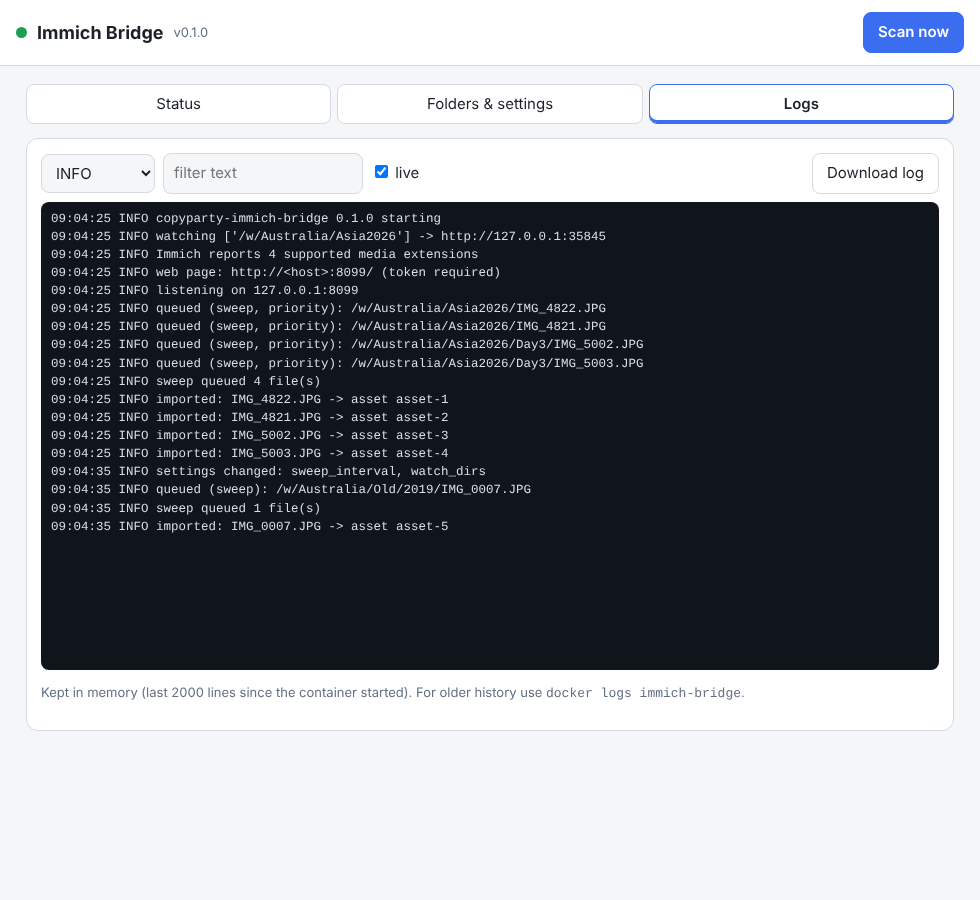
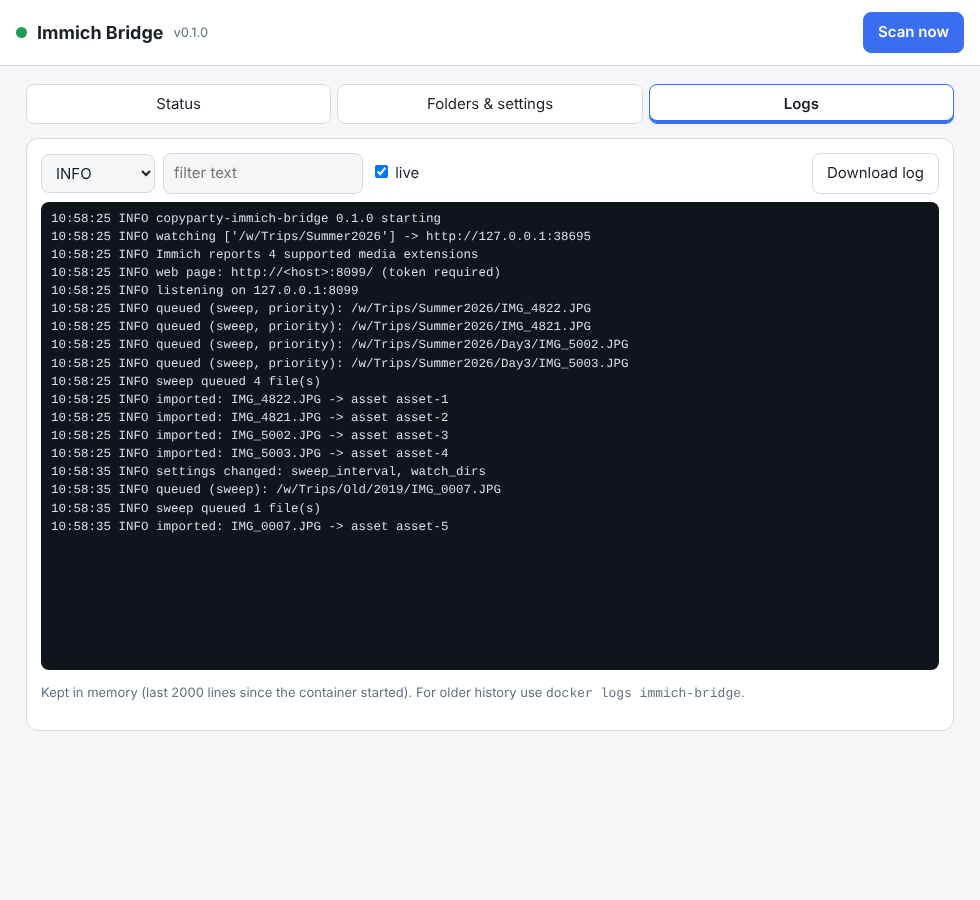
installer/docs: remove the owner's folder names; installer asks for the app folder once and remembers it (build 222) [skip ci]
install.sh no longer defaults to a personal path: APP_FOLDER comes from the flag, from the
previous run's override file, or one prompt (blank = whole data folder). BASE_FOLDER defaults to
the folder containing it. Docs, screenshots, flow page, album placeholder and test data use
generic names. Docs/installer only, so CI is skipped (no APK rebuild).

Claude-Session: https://claude.ai/code/session_01EkgYV68fmubUY33qNcu9Ad

diff --git a/copyparty-immich-bridge/docs/bridge-flow.html b/copyparty-immich-bridge/docs/bridge-flow.html
@@ -138,7 +138,7 @@
         { t: 'Start', d: 'One command on the VM that runs copyparty. Everything is wrapped in a main() so the pipe is fully read before anything runs.', nodes: ['i1'], edges: [] },
         { t: 'Preflight', d: 'Checks docker, curl, git and compose exist, that ~/copyparty/docker-compose.yml is there, and that the copyparty container is running. It refuses to overwrite a docker-compose.override.yml it did not create itself.', nodes: ['i1', 'i2'], edges: [['i1', 'i2']] },
         { t: 'Finds X — where copyparty keeps files', d: 'Runs docker inspect on the copyparty container and lists its mounts. The first mount that is not copyparty’s /cfg config dir is the data mount: X-host (on the VM, e.g. your NAS mount) paired with X-container (the same folder as copyparty sees it). The bridge mounts X read-only.', nodes: ['i2', 'i3'], edges: [['i2', 'i3']] },
-        { t: 'Works out Y — which folders to watch', d: 'Y is built from X-container plus folder names: WATCH_DIRS = X/Australia/Asia2026 (the app’s upload folder) and PRIORITY_DIRS = the same folder, imported first. With WIDE=1, WATCH_DIRS widens to X/Australia while priority stays Asia2026. Override with APP_FOLDER / BASE_FOLDER.', nodes: ['i3', 'i4'], edges: [['i3', 'i4']] },
+        { t: 'Works out Y — which folders to watch', d: 'Y is the folder your phone app uploads into, inside X-container. A re-run reads it back from the installer’s own previous override file, so it only asks on the first install: type it relative to X (for example Trips/Summer2026), or leave it blank to watch everything under X. WATCH_DIRS and PRIORITY_DIRS are both set to it, so it is imported first. With WIDE=1, WATCH_DIRS widens to the folder that contains it while the priority stays on Y. Skip the question with APP_FOLDER=… in front.', nodes: ['i3', 'i4'], edges: [['i3', 'i4']] },
         { t: 'Checks Immich', d: 'IMMICH_URL defaults to this VM’s IP on port 2283. It pings the server, then calls /api/users/me with the API key (asked for once, hidden, read from the terminal). If either fails, it stops before touching your setup.', nodes: ['i4', 'i5'], edges: [['i4', 'i5']] },
         { t: 'Fetches the bridge source', d: 'Sparse git clone of just the copyparty-immich-bridge folder from the repo (re-runs fetch and reset instead).', nodes: ['i5', 'i6'], edges: [['i5', 'i6']] },
         { t: 'Writes the override — never your compose file', d: 'Creates docker-compose.override.yml next to yours: the bridge service (env: IMMICH_URL, WATCH_DIRS, PRIORITY_DIRS; X mounted read-only; a small volume for its state) and, unless your compose already sets command:, the copyparty xau hook. The key goes in immich-bridge.env (mode 600). Delete the override to undo.', nodes: ['i6', 'i7'], edges: [['i6', 'i7']] },
@@ -171,7 +171,7 @@
         { t: 'Two ways a file gets noticed', d: 'Fast path: the copyparty hook. Safety net: a periodic folder sweep. Both end at the same queue, so a file is never imported twice and never missed.', nodes: ['a1', 'b1'], edges: [] },
         { t: 'Fast path — upload completes', d: 'A phone (or anything else) finishes an upload into the watched part of copyparty.', nodes: ['a1', 'a2'], edges: [['a1', 'a2']] },
         { t: 'Fast path — hook calls the bridge', d: 'copyparty runs its xau event hook (flags f,j,t30: forked, JSON, 30 s timeout). The script POSTs the file path to the bridge’s /hook, so the upload itself is never slowed down. If the bridge is down the hook just fails quietly.', nodes: ['a2', 'a3'], edges: [['a2', 'a3']] },
-        { t: 'Fast path — scoping', d: 'The bridge maps the path into its own mount and only accepts it if it is inside WATCH_DIRS. Anything else is logged and ignored (this is why the default install only touches Asia2026). Accepted paths go to the queue.', nodes: ['a3', 'q'], edges: [['a3', 'q']] },
+        { t: 'Fast path — scoping', d: 'The bridge maps the path into its own mount and only accepts it if it is inside WATCH_DIRS. Anything else is logged and ignored (this is why the default install only touches Summer2026). Accepted paths go to the queue.', nodes: ['a3', 'q'], edges: [['a3', 'q']] },
         { t: 'Backstop — the sweep starts', d: 'Runs once at startup and then every SWEEP_INTERVAL_SECONDS (900). This is what catches anything uploaded while the bridge or hook was down, and files from uploaders that never fire the hook.', nodes: ['b1', 'b2'], edges: [['b1', 'b2']] },
         { t: 'Backstop — finds files in folder Y and every subfolder', d: 'os.walk over each WATCH_DIRS entry, all the way down. It skips hidden directories (this covers copyparty’s .hist), the post-import move folder, dotfiles and *.PARTIAL files that up2k is still writing, empty files, and unsupported extensions (the list comes from Immich itself via /api/server/media-types).', nodes: ['b2', 'b3'], edges: [['b2', 'b3']] },
         { t: 'Backstop — skip what’s already handled', d: 'Files modified in the last 30 s are left alone so a half-written file is not grabbed. Anything state.db already has as done for the same size and mtime is skipped, and so is anything that has failed 5 times. The rest is queued.', nodes: ['b3', 'q'], edges: [['b3', 'q']] },
@@ -243,35 +243,35 @@
       [['You type, on the VM, as your normal user', 'user@docker-vm:~$ curl -fsSL https://raw.githubusercontent.com/frostymccool/immich/feature/copyparty-up2k-import/copyparty-immich-bridge/install.sh | bash']],
       [['Output if all is well', '(silent — it moves straight on)'], ['Output if something is missing', 'ERROR: container \'copyparty\' not found (set CONTAINER=...)']],
       [['docker inspect copyparty → mounts (host|container)', '/home/user/copyparty/cfg|/cfg        ← skipped (config dir)\n/mnt/uploads|/w                  ← this is X'], ['Installer prints', 'copyparty data: /mnt/uploads -> /w (mounted read-only into the bridge)']],
-      [['Default (app folder only)', 'WATCH_DIRS    = /w/Australia/Asia2026\nPRIORITY_DIRS = /w/Australia/Asia2026'], ['With WIDE=1', 'WATCH_DIRS    = /w/Australia\nPRIORITY_DIRS = /w/Australia/Asia2026   (still imported first)']],
+      [['First install: the installer asks once (a re-run says "Keeping the folder from your last install: Trips/Summer2026")', 'Which folder does the phone app upload into? Give it relative to copyparty\'s data folder\n(inside /w), for example  Trips/Summer2026 . Leave blank to watch everything there.\nFolder: Trips/Summer2026'], ['Default (app folder only)', 'WATCH_DIRS    = /w/Trips/Summer2026\nPRIORITY_DIRS = /w/Trips/Summer2026'], ['With WIDE=1', 'WATCH_DIRS    = /w/Trips\nPRIORITY_DIRS = /w/Trips/Summer2026   (still imported first)']],
       [['Installer prints', '==> Checking Immich at http://192.168.1.50:2283\nImmich reachable, API key accepted.'], ['Key prompt (typing is hidden)', 'Paste the Immich API key (input hidden): ']],
       [['Installer prints', '==> Fetching the bridge (branch feature/copyparty-up2k-import)\nCloning into \'/home/user/immich-bridge-src\'...']],
-      [['~/copyparty/docker-compose.override.yml (new file)', '# managed by the immich-bridge installer\nservices:\n  copyparty:\n    volumes:\n      - /home/user/immich-bridge-src/copyparty-immich-bridge/hook/immich_bridge_hook.py:/hooks/immich_bridge_hook.py:ro\n    environment:\n      IMMICH_BRIDGE_URL: http://immich-bridge:8099\n    command: ["--xau", "f,j,t30,/hooks/immich_bridge_hook.py"]\n  immich-bridge:\n    build: /home/user/immich-bridge-src/copyparty-immich-bridge\n    ports: ["8099:8099"]\n    environment:\n      IMMICH_URL: http://192.168.1.50:2283\n      WATCH_DIRS: /w/Australia/Asia2026\n      PRIORITY_DIRS: /w/Australia/Asia2026\n    volumes:\n      - /mnt/uploads:/w:ro']],
+      [['~/copyparty/docker-compose.override.yml (new file)', '# managed by the immich-bridge installer\nservices:\n  copyparty:\n    volumes:\n      - /home/user/immich-bridge-src/copyparty-immich-bridge/hook/immich_bridge_hook.py:/hooks/immich_bridge_hook.py:ro\n    environment:\n      IMMICH_BRIDGE_URL: http://immich-bridge:8099\n    command: ["--xau", "f,j,t30,/hooks/immich_bridge_hook.py"]\n  immich-bridge:\n    build: /home/user/immich-bridge-src/copyparty-immich-bridge\n    ports: ["8099:8099"]\n    environment:\n      IMMICH_URL: http://192.168.1.50:2283\n      WATCH_DIRS: /w/Trips/Summer2026\n      PRIORITY_DIRS: /w/Trips/Summer2026\n    volumes:\n      - /mnt/uploads:/w:ro']],
       [['Installer prints', '==> Starting the bridge\n [+] Building 24.1s\n ✔ Container immich-bridge  Started\n ✔ Container copyparty      Started']],
       [['Normal run', '(nothing printed; copyparty is still "running" after 10 s)'], ['If copyparty won\'t start with the hook', 'copyparty did not stay up with the instant hook (restarting); removing the hook and retrying.']],
-      [['Final output', '==> Installed\nWatching:        /w/Australia/Asia2026\nImported first:  /w/Australia/Asia2026\nInstant import:  on (copyparty hook)\nOnly the app\'s folder is watched. To also import the rest of \'Australia\', re-run with WIDE=1 in front.\n\nLAST STEP, on your phone: Settings > copyparty > Import Bridge > URL:  http://192.168.1.50:8099']]
+      [['Final output', '==> Installed\nWatching:        /w/Trips/Summer2026\nImported first:  /w/Trips/Summer2026\nInstant import:  on (copyparty hook)\nOnly the app\'s folder is watched. To also import the rest of \'Trips\', re-run with WIDE=1 in front.\n\nLAST STEP, on your phone: Settings > copyparty > Import Bridge > URL:  http://192.168.1.50:8099']]
     ],
     [
-      [['Where each path shows up in the bridge log', '14:02:11 INFO bridge.worker: queued (hook, priority): /w/Australia/Asia2026/IMG_4821.JPG\n14:15:00 INFO bridge.worker: sweep queued 37 file(s)']],
-      [['In copyparty', 'Phone uploads IMG_4821.JPG (4.2 MB) into  Australia/Asia2026/\ncopyparty finishes it as  /w/Australia/Asia2026/IMG_4821.JPG']],
-      [['What copyparty hands the hook (abridged)', '{"ap": "/w/Australia/Asia2026/IMG_4821.JPG", "vp": "Australia/Asia2026/IMG_4821.JPG", "sz": 4411203, "user": "phone"}'], ['Hook → bridge', 'POST http://immich-bridge:8099/hook\n← 200 {"queued": 1}']],
-      [['Inside WATCH_DIRS', '/w/Australia/Asia2026/IMG_4821.JPG → accepted   ← 200 {"queued": 1}'], ['Outside WATCH_DIRS', 'INFO bridge.server: hook path outside WATCH_DIRS, ignored: /w/Other/holiday.mp4\n← 200 {"queued": 0}']],
-      [['Bridge log at start-up', 'INFO bridge: copyparty-immich-bridge 0.1.0 starting\nINFO bridge: watching [\'/w/Australia/Asia2026\'] -> http://192.168.1.50:2283\nINFO bridge.worker: sweep queued 37 file(s)']],
-      [['What the sweep decides, file by file', '/w/Australia/Asia2026/\n  IMG_4821.JPG            ✓ candidate\n  Day3/IMG_5002.HEIC      ✓ candidate (subfolder)\n  Day3/IMG_5003.MOV       ✓ candidate\n  Day3/IMG_5004.JPG.PARTIAL   ✗ still being uploaded\n  Day3/.hist/             ✗ hidden folder, not entered\n  notes.txt               ✗ not a media type Immich accepts\n  empty.jpg               ✗ 0 bytes\n  IMG_5100.JPG            ✗ modified 12 s ago (needs 30 s)']],
+      [['Where each path shows up in the bridge log', '14:02:11 INFO bridge.worker: queued (hook, priority): /w/Trips/Summer2026/IMG_4821.JPG\n14:15:00 INFO bridge.worker: sweep queued 37 file(s)']],
+      [['In copyparty', 'Phone uploads IMG_4821.JPG (4.2 MB) into  Trips/Summer2026/\ncopyparty finishes it as  /w/Trips/Summer2026/IMG_4821.JPG']],
+      [['What copyparty hands the hook (abridged)', '{"ap": "/w/Trips/Summer2026/IMG_4821.JPG", "vp": "Trips/Summer2026/IMG_4821.JPG", "sz": 4411203, "user": "phone"}'], ['Hook → bridge', 'POST http://immich-bridge:8099/hook\n← 200 {"queued": 1}']],
+      [['Inside WATCH_DIRS', '/w/Trips/Summer2026/IMG_4821.JPG → accepted   ← 200 {"queued": 1}'], ['Outside WATCH_DIRS', 'INFO bridge.server: hook path outside WATCH_DIRS, ignored: /w/Other/holiday.mp4\n← 200 {"queued": 0}']],
+      [['Bridge log at start-up', 'INFO bridge: copyparty-immich-bridge 0.1.0 starting\nINFO bridge: watching [\'/w/Trips/Summer2026\'] -> http://192.168.1.50:2283\nINFO bridge.worker: sweep queued 37 file(s)']],
+      [['What the sweep decides, file by file', '/w/Trips/Summer2026/\n  IMG_4821.JPG            ✓ candidate\n  Day3/IMG_5002.HEIC      ✓ candidate (subfolder)\n  Day3/IMG_5003.MOV       ✓ candidate\n  Day3/IMG_5004.JPG.PARTIAL   ✗ still being uploaded\n  Day3/.hist/             ✗ hidden folder, not entered\n  notes.txt               ✗ not a media type Immich accepts\n  empty.jpg               ✗ 0 bytes\n  IMG_5100.JPG            ✗ modified 12 s ago (needs 30 s)']],
       [['state.db lookup', 'IMG_4800.JPG  size 3.9 MB  mtime 2026-10-23 09:14  → imported       → skipped\nIMG_4821.JPG  not in state.db                                → queued\nBAD_0001.JPG  failed 5 of 5 attempts                          → skipped (gave up)']],
-      [['Queue contents (priority, order, path) — pops lowest first', '(0, #41)  /w/Australia/Asia2026/IMG_4821.JPG       ← app folder\n(0, #42)  /w/Australia/Asia2026/Day3/IMG_5002.HEIC  ← app folder\n(1, #40)  /w/Australia/Old/2019/IMG_0007.JPG        ← elsewhere (WIDE=1)\n\nImported in order: #41, #42, then #40 even though #40 queued first.']],
+      [['Queue contents (priority, order, path) — pops lowest first', '(0, #41)  /w/Trips/Summer2026/IMG_4821.JPG       ← app folder\n(0, #42)  /w/Trips/Summer2026/Day3/IMG_5002.HEIC  ← app folder\n(1, #40)  /w/Trips/Old/2019/IMG_0007.JPG        ← elsewhere (WIDE=1)\n\nImported in order: #41, #42, then #40 even though #40 queued first.']],
       [['Checks, with outcomes', 'IMG_4821.JPG   ok\n.DS_Store        ✗ dotfile, ignored\nclip.mkv.PARTIAL ✗ partial, ignored\nreport.pdf      ✗ recorded as skipped: unsupported extension\nzero.jpg        ✗ size 0, ignored\nIMG_4800.JPG    ✗ already imported (same size + mtime)']],
       [['Bridge → Immich', 'sha1 = 3f786850e387550fdab836ed7e6dc881de23001b\nPOST /api/assets/bulk-upload-check\n  {"assets":[{"id":"/w/…/IMG_4821.JPG","checksum":"3f78…001b"}]}\n← {"results":[{"action":"accept"}]}                      → not in Immich, go upload\n← {"results":[{"action":"reject","reason":"duplicate"}]}  → already there, skip upload'], ['Log line when it is a duplicate', 'INFO bridge.worker: already in Immich (checksum): IMG_4821.JPG -> 7c1e9a52-…']],
       [['Log line on success', '14:02:19 INFO bridge.worker: imported: IMG_4821.JPG -> asset 7c1e9a52-3b0f-4d6a-9f21-5a8e2c0d7b14'], ['What you then see in Immich', 'Asset "IMG_4821.JPG" appears in the timeline (uploaded as device "copyparty-bridge")']],
-      [['state.db rows after a few files', 'path                                         status     attempts  updated\n…/Asia2026/IMG_4821.JPG                      imported   0         14:02:19\n…/Asia2026/Day3/IMG_5002.HEIC               duplicate  0         14:02:22\n…/Asia2026/report.pdf                       skipped    0         14:15:03'], ['/status then returns', '{"counts": {"imported": 12, "duplicate": 3, "failed": 1, "skipped": 2}, "queue": 4, ...}']],
-      [['Failure log + row', 'WARNING bridge.worker: import failed for /w/…/Day3/IMG_5002.HEIC: upload failed: HTTP 500\n…/Day3/IMG_5002.HEIC   failed   attempts 2   "upload failed: HTTP 500"   ← sweep retries at the next 15-min tick'], ['After a success (default keep)', '/w/Australia/Asia2026/IMG_4821.JPG still exists, byte-for-byte unchanged']]
+      [['state.db rows after a few files', 'path                                         status     attempts  updated\n…/Summer2026/IMG_4821.JPG                      imported   0         14:02:19\n…/Summer2026/Day3/IMG_5002.HEIC               duplicate  0         14:02:22\n…/Summer2026/report.pdf                       skipped    0         14:15:03'], ['/status then returns', '{"counts": {"imported": 12, "duplicate": 3, "failed": 1, "skipped": 2}, "queue": 4, ...}']],
+      [['Failure log + row', 'WARNING bridge.worker: import failed for /w/…/Day3/IMG_5002.HEIC: upload failed: HTTP 500\n…/Day3/IMG_5002.HEIC   failed   attempts 2   "upload failed: HTTP 500"   ← sweep retries at the next 15-min tick'], ['After a success (default keep)', '/w/Trips/Summer2026/IMG_4821.JPG still exists, byte-for-byte unchanged']]
     ],
     [
-      [['One row in state.db', 'path = /w/Australia/Asia2026/IMG_4821.JPG\nstatus = imported   asset_id = 7c1e9a52-…   attempts = 0   updated_at = 1792576939.4']],
-      [['GET /healthz', '{"ok": true, "version": "0.1.0"}'], ['GET /status (abridged)', '{\n  "counts": {"imported": 12, "duplicate": 3, "failed": 1, "skipped": 2},\n  "queue": 4,\n  "watch_dirs": ["/w/Australia/Asia2026"],\n  "priority_dirs": ["/w/Australia/Asia2026"],\n  "recent": [{"path": "/w/…/IMG_4821.JPG", "status": "imported", "updated_at": 1792576939.4}, …]\n}']],
+      [['One row in state.db', 'path = /w/Trips/Summer2026/IMG_4821.JPG\nstatus = imported   asset_id = 7c1e9a52-…   attempts = 0   updated_at = 1792576939.4']],
+      [['GET /healthz', '{"ok": true, "version": "0.1.0"}'], ['GET /status (abridged)', '{\n  "counts": {"imported": 12, "duplicate": 3, "failed": 1, "skipped": 2},\n  "queue": 4,\n  "watch_dirs": ["/w/Trips/Summer2026"],\n  "priority_dirs": ["/w/Trips/Summer2026"],\n  "recent": [{"path": "/w/…/IMG_4821.JPG", "status": "imported", "updated_at": 1792576939.4}, …]\n}']],
       [['In the app, once', 'Settings → copyparty → Import Bridge → URL:  http://192.168.1.50:8099'], ['Requests the app then makes', 'GET http://192.168.1.50:8099/healthz   (≤4 s)\nGET http://192.168.1.50:8099/status    (≤4 s)']],
       [['Timeline', '12:00:00  you open the settings page → fetch\n12:00:15  fetch again\n12:00:30  fetch again\n12:00:41  you leave the page → polling stops, nothing runs in the background']],
-      [['Tile on your phone (what the app really renders)', 'Import bridge: running (v0.1.0)\n12 imported · 3 already in Immich · 4 queued\n1 failed (retried automatically)\nWatching: /w/Australia/Asia2026\nImported first: /w/Australia/Asia2026\nLast activity 2 min ago\n\n☁ IMG_4821.JPG      imported · 2 min ago\n⧉ IMG_5002.HEIC     duplicate · 2 min ago\n⚠ IMG_5099.MOV      failed · 14 min ago\n                    upload failed: HTTP 500', 'phone']],
+      [['Tile on your phone (what the app really renders)', 'Import bridge: running (v0.1.0)\n12 imported · 3 already in Immich · 4 queued\n1 failed (retried automatically)\nWatching: /w/Trips/Summer2026\nImported first: /w/Trips/Summer2026\nLast activity 2 min ago\n\n☁ IMG_4821.JPG      imported · 2 min ago\n⧉ IMG_5002.HEIC     duplicate · 2 min ago\n⚠ IMG_5099.MOV      failed · 14 min ago\n                    upload failed: HTTP 500', 'phone']],
       [['Same tile, other states', 'Blank URL:      no tile (feature off, no request made)\nBad URL:        Import bridge: invalid URL — Enter an address like http://192.168.1.50:8099\nVM / bridge off: Import bridge: not reachable — Uploads to copyparty and Immich are unaffected. Anything uploaded meanwhile is picked up automatically when the bridge is back. Tap to retry.']],
       [['What stays unaffected when the tile says "not reachable"', 'Phone backup to Immich  ✓ normal\nImport from Memory Card → copyparty  ✓ normal\nImmich timeline, search, sync  ✓ normal']]
     ],
@@ -279,11 +279,11 @@
       [['What the installer prints at the end', 'Settings page:   http://192.168.1.50:8099/#token=EXAMPLE-NOT-A-REAL-TOKEN-0000000000\n                 (open that link once; the browser remembers it. Choose folders, see logs, scan now.)']],
       [['Browser address bar before and after', 'before:  http://192.168.1.50:8099/#token=EXAMPLE-NOT-A…\nafter:   http://192.168.1.50:8099/        (token stored in this browser only)'], ['Exactly what the page shows', 'ui-status.png', 'img']],
       [['Without the token (curl from another PC)', '$ curl -s http://192.168.1.50:8099/api/config\n{"error": "missing or wrong token"}        ← HTTP 401\n\nBridge installed with no token at all:\n{"error": "BRIDGE_TOKEN is not set, so the settings API is switched off"}   ← HTTP 403']],
-      [['GET /api/fs?path=/w/Australia (what the folder picker lists)', '{"path": "/w/Australia", "parent": "/w", "roots": ["/w"],\n "dirs": [{"name": "Asia2026", "path": "/w/Australia/Asia2026"},\n          {"name": "Old",      "path": "/w/Australia/Old"},\n          {"name": "Work",     "path": "/w/Australia/Work"}],\n "files": 0, "truncated": false}'], ['The picker on screen', 'ui-picker.png', 'img'], ['Refused, not listed', 'GET /api/fs?path=/etc            → 403 "that folder is outside the folders this container can see"\n/w/.hist, /w/.cache             → hidden folders are never offered\n/w/escape -> /etc (symlink)     → not offered, and opening it is refused']],
+      [['GET /api/fs?path=/w/Trips (what the folder picker lists)', '{"path": "/w/Trips", "parent": "/w", "roots": ["/w"],\n "dirs": [{"name": "Summer2026", "path": "/w/Trips/Summer2026"},\n          {"name": "Old",      "path": "/w/Trips/Old"},\n          {"name": "Work",     "path": "/w/Trips/Work"}],\n "files": 0, "truncated": false}'], ['The picker on screen', 'ui-picker.png', 'img'], ['Refused, not listed', 'GET /api/fs?path=/etc            → 403 "that folder is outside the folders this container can see"\n/w/.hist, /w/.cache             → hidden folders are never offered\n/w/escape -> /etc (symlink)     → not offered, and opening it is refused']],
       [['The settings page', 'ui-settings.png', 'img']],
-      [['Saving something invalid (real response)', 'PUT /api/config  {"max_attempts": 0, "watch_dirs": ["/nope"]}\n← HTTP 400 {"error": "/nope is outside the folders this container can see (/w); max_attempts must be between 1 and 100"}\n(nothing was applied)'], ['Other checks', 'priority folder /w/Other must be inside one of the watched folders\npost_import_action \'delete\' needs write access, but /w/Australia is mounted read-only']],
-      [['/data/settings.json afterwards (only differences from the installer are stored)', '{\n  "overrides": {\n    "sweep_interval": 300,\n    "watch_dirs": ["/w/Australia/Asia2026", "/w/Australia/Old"]\n  },\n  "version": 1\n}'], ['Page confirms', 'Saved. Applied now, no restart needed.     (label turns orange: "changed from installer default")'], ['Result on screen', 'ui-saved.png', 'img']],
-      [['Bridge log, seconds after pressing Save (real output)', '09:03:07 INFO settings changed: sweep_interval, watch_dirs\n09:03:07 INFO queued (sweep): /w/Australia/Old/2019/IMG_0007.JPG\n09:03:07 INFO sweep queued 1 file(s)\n09:03:07 INFO imported: IMG_0007.JPG -> asset asset-5']],
+      [['Saving something invalid (real response)', 'PUT /api/config  {"max_attempts": 0, "watch_dirs": ["/nope"]}\n← HTTP 400 {"error": "/nope is outside the folders this container can see (/w); max_attempts must be between 1 and 100"}\n(nothing was applied)'], ['Other checks', 'priority folder /w/Other must be inside one of the watched folders\npost_import_action \'delete\' needs write access, but /w/Trips is mounted read-only']],
+      [['/data/settings.json afterwards (only differences from the installer are stored)', '{\n  "overrides": {\n    "sweep_interval": 300,\n    "watch_dirs": ["/w/Trips/Summer2026", "/w/Trips/Old"]\n  },\n  "version": 1\n}'], ['Page confirms', 'Saved. Applied now, no restart needed.     (label turns orange: "changed from installer default")'], ['Result on screen', 'ui-saved.png', 'img']],
+      [['Bridge log, seconds after pressing Save (real output)', '09:03:07 INFO settings changed: sweep_interval, watch_dirs\n09:03:07 INFO queued (sweep): /w/Trips/Old/2019/IMG_0007.JPG\n09:03:07 INFO sweep queued 1 file(s)\n09:03:07 INFO imported: IMG_0007.JPG -> asset asset-5']],
       [['Logs tab', 'ui-logs.png', 'img'], ['Download log button saves', 'immich-bridge-2026-10-26T09-03-10-202Z.log']],
       [['Rows on the page that are read-only', 'Immich address          http://192.168.1.50:2283\nImmich API key          set (hidden)\nWeb/hook port           8099\nImport workers          1\nFolders this page may browse   /w\n\nTo change the port:  curl … | BRIDGE_PORT=9000 bash\nTo allow move/delete: curl … | WRITABLE=1 bash\nTo undo page edits:   press "Reset to installer defaults"']]
     ]

diff --git a/mobile/test/services/immich_bridge_status_service_test.dart b/mobile/test/services/immich_bridge_status_service_test.dart
@@ -82,8 +82,8 @@ void main() {
           return _json({
             'counts': {'imported': 12, 'duplicate': 3, 'failed': 1, 'skipped': 2},
             'queue': 4,
-            'watch_dirs': ['/w/Australia'],
-            'priority_dirs': ['/w/Australia/Asia2026'],
+            'watch_dirs': ['/w/Trips'],
+            'priority_dirs': ['/w/Trips/Summer2026'],
             'recent': [
               {
                 'path': '/w/uploads/trip/IMG_0001.JPG',
@@ -114,8 +114,8 @@ void main() {
       expect(status.duplicates, 3);
       expect(status.failed, 1);
       expect(status.queue, 4);
-      expect(status.watchDirs, ['/w/Australia']);
-      expect(status.priorityDirs, ['/w/Australia/Asia2026']);
+      expect(status.watchDirs, ['/w/Trips']);
+      expect(status.priorityDirs, ['/w/Trips/Summer2026']);
       expect(status.recent, hasLength(2));
       expect(status.recent.first.fileName, 'IMG_0001.JPG');
       expect(status.recent.last.error, 'upload failed: HTTP 500');

diff --git a/mobile/test/services/copyparty_stray_partial_test.dart b/mobile/test/services/copyparty_stray_partial_test.dart
@@ -7,7 +7,7 @@ import 'package:immich_mobile/domain/models/copyparty/copyparty_models.dart';
 import 'package:immich_mobile/services/copyparty/copyparty_uploader.service.dart';
 
 const _file = 'VID_20261022_153357_00_035.insv';
-const _url = 'https://cp.example.test/Asia2026/360%20pagoda%2022nd%20oct/$_file';
+const _url = 'https://cp.example.test/Summer2026/360%20clips%2022nd%20oct/$_file';
 
 http.Response _listing(Map<String, int> files) => http.Response(
   jsonEncode({
@@ -78,7 +78,7 @@ void main() {
       expect(r.removed, ['$_file.PARTIAL']);
       expect(r.failed, isEmpty);
       expect(t.deletes, hasLength(1));
-      expect(t.deletes.single.pathSegments, ['Asia2026', '360 pagoda 22nd oct', '$_file.PARTIAL']);
+      expect(t.deletes.single.pathSegments, ['Summer2026', '360 clips 22nd oct', '$_file.PARTIAL']);
       expect(t.deletes.single.queryParameters['pw'], 'pw1');
     });
 

diff --git a/copyparty-immich-bridge/bridge/web/index.html b/copyparty-immich-bridge/bridge/web/index.html
@@ -132,7 +132,7 @@
         </select>
         <div class="muted" id="postWarn"></div>
         <label class="f" for="album_name">Add imports to this Immich album (optional) <span class="changed" id="c_album_name"></span></label>
-        <input id="album_name" type="text" placeholder="e.g. Asia 2026">
+        <input id="album_name" type="text" placeholder="e.g. Summer trip 2026">
         <label class="f" for="include_extensions">Only these file types (optional) <span class="changed" id="c_include_extensions"></span></label>
         <input id="include_extensions" type="text" placeholder="blank = whatever Immich supports, e.g. jpg heic mp4">
         <label class="f" for="log_level">Log detail <span class="changed" id="c_log_level"></span></label>

diff --git a/mobile/lib/pages/copyparty/copyparty_import.page.dart b/mobile/lib/pages/copyparty/copyparty_import.page.dart
@@ -3097,8 +3097,8 @@ class _CompletionFileTile extends StatelessWidget {
 
 /// Relative folder shown in the picker/completion — INCLUDES the picked root
 /// folder's own name so it matches where the file lands on the server under
-/// FB9 (e.g. root "australia" + subfolder "sydney bridge" → "australia/sydney
-/// bridge"). (item 4)
+/// FB9 (e.g. root "trips" + subfolder "city walk" → "trips/city
+/// walk"). (item 4)
 String _relPathUtil(String? root, String? dir) {
   if (dir == null) {
     return '';

diff --git a/copyparty-immich-bridge/tests/test_worker.py b/copyparty-immich-bridge/tests/test_worker.py
@@ -156,12 +156,12 @@ def test_enqueue_dedupes(tmp_path):
 
 def test_priority_dir_files_are_processed_first(tmp_path):
     with StubImmich() as stub:
-        prio_dir = str(tmp_path / "watch" / "Asia2026")
+        prio_dir = str(tmp_path / "watch" / "Summer2026")
         worker, _, _ = make_worker(tmp_path, stub, priority_dirs=[prio_dir])
         a = write_file(tmp_path, "other/a.jpg")
         b = write_file(tmp_path, "other/b.jpg")
-        c = write_file(tmp_path, "Asia2026/c.jpg")
-        d = write_file(tmp_path, "Asia2026/d.jpg")
+        c = write_file(tmp_path, "Summer2026/c.jpg")
+        d = write_file(tmp_path, "Summer2026/d.jpg")
         for p in (a, b, c, d):  # base-folder files are queued FIRST
             worker.enqueue(p, "test")
 

diff --git a/copyparty-immich-bridge/tests/test_config.py b/copyparty-immich-bridge/tests/test_config.py
@@ -72,8 +72,8 @@ def test_bad_int():
 
 
 def test_priority_dirs_parsed_and_must_be_inside_watch_dirs():
-    env = dict(BASE_ENV, WATCH_DIRS="/w/Australia", PRIORITY_DIRS="/w/Australia/Asia2026/")
-    assert Config.from_env(env).priority_dirs == ["/w/Australia/Asia2026"]
+    env = dict(BASE_ENV, WATCH_DIRS="/w/Trips", PRIORITY_DIRS="/w/Trips/Summer2026/")
+    assert Config.from_env(env).priority_dirs == ["/w/Trips/Summer2026"]
     assert Config.from_env(dict(BASE_ENV)).priority_dirs == []
 
     with pytest.raises(ConfigError):

diff --git a/CLAUDE.md b/CLAUDE.md
@@ -14,7 +14,7 @@ code runs 3048 ahead of the custom number):
 ```
 3.3.3-custom.N+<3048+N>  →  3.3.3-custom.(N+1)+<3049+N>
 ```
-Latest pushed to the build branch: **3.3.5-custom.221+3269** (next push → `222+3270`). Build 221 = release of the batch 215–220: "Verify then delete" on Pending Cleanup (`_verifyThenDeleteSelected`), stuck "Queued…" snackbar fix (`copyparty_snackbar.dart`: Flutter keeps SnackBars that have an action forever unless `persist:false`; the action uses a pre-captured NavigatorState), Insta360 grouping fix (`CopypartyFilePairer.normalise` drops the 2-digit type/lens field in `PREFIX_YYYYMMDD_HHMMSS_LL_NNN`, so LRV_…_01_004.lrv pairs with VID_…_00_004.insv and VID_…_10_004.insv; `test/services/copyparty_file_pairer_test.dart`), stray `.PARTIAL` handling (complete file + leftover partial = amber "duplicate partial", not a red failure: Verify offered instead of "Upload now"; after a hash-verified delete the leftover is removed from copyparty via the ONLY normal-flow server delete, `CopypartyUploaderService.removeStrayPartials` — re-lists first, needs the complete non-empty file, exact `<name>.PARTIAL`/`.<name>.PARTIAL` only, never the suffixed form; needs a delete-capable copyparty login, failures are reported not thrown; `ServerFileVerification.strayPartial/looksLikeStrayPartial`; `test/services/copyparty_stray_partial_test.dart`; NOT yet confirmed against a real server — if Verify on such a row fails, read the diag log: a 422 "partial exists" handshake would block verification), and import-page labels for staging to the phone cache (Caching bubble, "cached 5%", Cached). Earlier: 214 = CI gives Gradle -Xmx6144M via ~/.gradle/gradle.properties after repeat "Java heap space" failures (builds 204, 209); 213 = audit is a first step in the APK build job (no reusable-workflow `./` call, zizmor), shellcheck-clean; 211 = fork audit wired into every pipeline, 212 = audit checks the real PR head commit instead of GitHub's synthetic merge; 209 = the "config upgrade" below; synced to upstream v3.3.5. **Pushes to `feature/**` DO trigger the APK build** (run listings can lag — never also dispatch by hand); the `claude/*` branch is the no-build parking branch for unreleased work. Jumped 132→200 on purpose to mark the copyparty-immich-bridge addition.
+Latest pushed to the build branch: **3.3.5-custom.222+3270** (next push → `223+3271`). 222 = docs/installer-only (committed with `[skip ci]` so it did not rebuild the APK): `install.sh` no longer hard-codes the owner's folder names — it asks once for the app upload folder (or `APP_FOLDER=`; `.` = whole data folder), remembers it by reading its own previous override file, `BASE_FOLDER` defaults to the folder containing it; screenshots/docs/tests use generic names (Trips/Summer2026). Build 221 = release of the batch 215–220: "Verify then delete" on Pending Cleanup (`_verifyThenDeleteSelected`), stuck "Queued…" snackbar fix (`copyparty_snackbar.dart`: Flutter keeps SnackBars that have an action forever unless `persist:false`; the action uses a pre-captured NavigatorState), Insta360 grouping fix (`CopypartyFilePairer.normalise` drops the 2-digit type/lens field in `PREFIX_YYYYMMDD_HHMMSS_LL_NNN`, so LRV_…_01_004.lrv pairs with VID_…_00_004.insv and VID_…_10_004.insv; `test/services/copyparty_file_pairer_test.dart`), stray `.PARTIAL` handling (complete file + leftover partial = amber "duplicate partial", not a red failure: Verify offered instead of "Upload now"; after a hash-verified delete the leftover is removed from copyparty via the ONLY normal-flow server delete, `CopypartyUploaderService.removeStrayPartials` — re-lists first, needs the complete non-empty file, exact `<name>.PARTIAL`/`.<name>.PARTIAL` only, never the suffixed form; needs a delete-capable copyparty login, failures are reported not thrown; `ServerFileVerification.strayPartial/looksLikeStrayPartial`; `test/services/copyparty_stray_partial_test.dart`; NOT yet confirmed against a real server — if Verify on such a row fails, read the diag log: a 422 "partial exists" handshake would block verification), and import-page labels for staging to the phone cache (Caching bubble, "cached 5%", Cached). Earlier: 214 = CI gives Gradle -Xmx6144M via ~/.gradle/gradle.properties after repeat "Java heap space" failures (builds 204, 209); 213 = audit is a first step in the APK build job (no reusable-workflow `./` call, zizmor), shellcheck-clean; 211 = fork audit wired into every pipeline, 212 = audit checks the real PR head commit instead of GitHub's synthetic merge; 209 = the "config upgrade" below; synced to upstream v3.3.5. **Pushes to `feature/**` DO trigger the APK build** (run listings can lag — never also dispatch by hand); the `claude/*` branch is the no-build parking branch for unreleased work. Jumped 132→200 on purpose to mark the copyparty-immich-bridge addition.
 
 Note: another Claude Code session may also be working on this fork in parallel on branch
 `claude/auto-immich-copyparty-upload-eq80lh` (not `feature/copyparty-up2k-import` itself — it
@@ -144,7 +144,7 @@ script must be extended when new fork-only directories/files are added. Upstream
 fork; the standalone audit still runs on every push regardless.
 
 ### Keep personal details out of the repo (public fork)
-Never commit real LAN IPs, hostnames, user names, NAS paths, tokens, API keys, `.env` files,
+Never commit real LAN IPs, hostnames, user names, NAS paths, trip/folder/album names (the owner's real ones — also in placeholders, screenshots and test data; grep case-insensitively and with spaces), tokens, API keys, `.env` files,
 keystores or logs. Use generic examples (`192.168.1.50`, `user@docker-vm`, `/mnt/uploads`, an obviously
 fake token). `.gitignore` covers `immich-bridge*.env`, `docker-compose.override.yml`, `key.properties`,
 `*.jks/*.keystore/*.p12/*.pem`, bridge `state.db`/`settings.json`/logs. Audit done at build 210: no secrets in

diff --git a/copyparty-immich-bridge/INSTALL.md b/copyparty-immich-bridge/INSTALL.md
@@ -28,14 +28,17 @@ When it finishes it prints two links:
 
 ## What it watches by default
 
-Only the app's upload folder, `Australia/Asia2026` (imported first). Nothing else on the NAS is
-touched, so the first run can't surprise you. To also import the rest of `Australia` (anything
-Immich doesn't already have, deduplicated by checksum), re-run with `WIDE=1`:
+The folder your phone app uploads into, imported first. **The installer asks for it once** (relative to
+copyparty's data folder, for example `Trips/Summer2026`; blank = everything under the data folder) and
+**remembers it on every re-run**, so updating never asks again. Nothing else on the NAS is touched, so the
+first run can't surprise you. To also import the rest of the folder that contains it (anything Immich
+doesn't already have, deduplicated by checksum), re-run with `WIDE=1`:
 
 ```bash
 curl -fsSL https://raw.githubusercontent.com/frostymccool/immich/feature/copyparty-up2k-import/copyparty-immich-bridge/install.sh | WIDE=1 bash
 ```
 
+You can change the watched folders any time on the settings page (no re-install needed).
 Source files are never moved or deleted (the bridge mounts them read-only).
 
 ## Update, remove, options
@@ -44,7 +47,7 @@ Source files are never moved or deleted (the bridge mounts them read-only).
 |------|----|
 | Update to the latest | run the same command again (it reuses the saved key) |
 | Uninstall | same command ending `\| bash -s -- --uninstall` |
-| Different folder names | prefix `APP_FOLDER=Australia/Other BASE_FOLDER=Australia` |
+| Choose the app folder without being asked | prefix `APP_FOLDER=Trips/Other` (`APP_FOLDER=.` = everything); `BASE_FOLDER=Trips` overrides what `WIDE=1` watches |
 | Skip the instant hook | prefix `HOOK=0` |
 | Let the page enable move/delete after import | prefix `WRITABLE=1` (mounts the data read-write) |
 | Change the port | prefix `BRIDGE_PORT=9000` |
